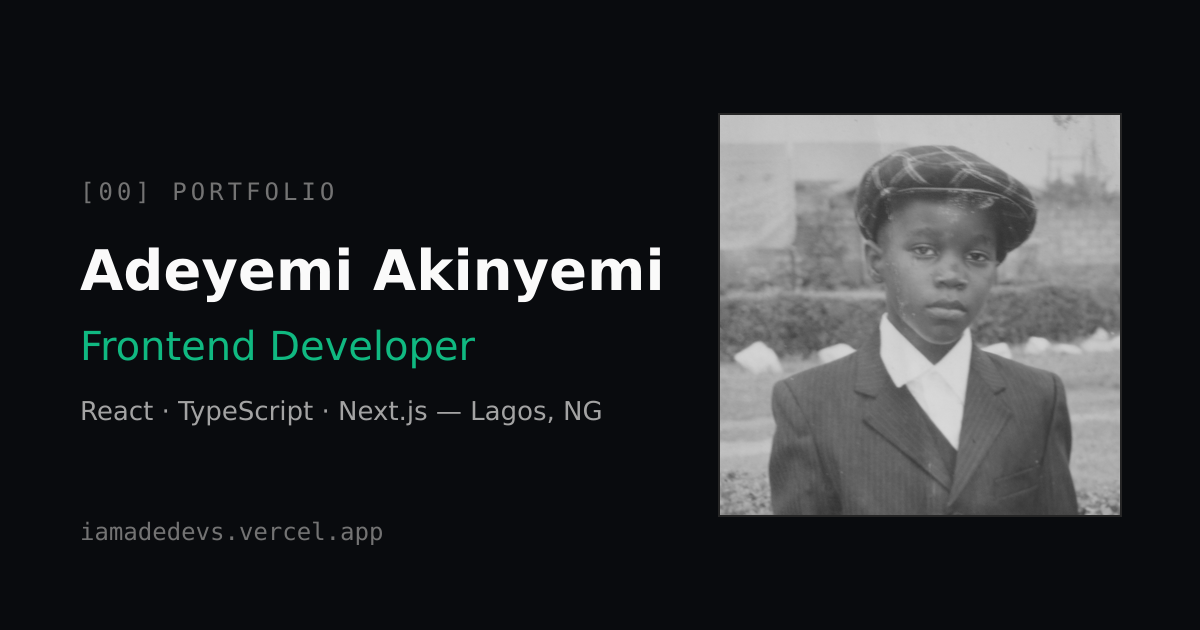
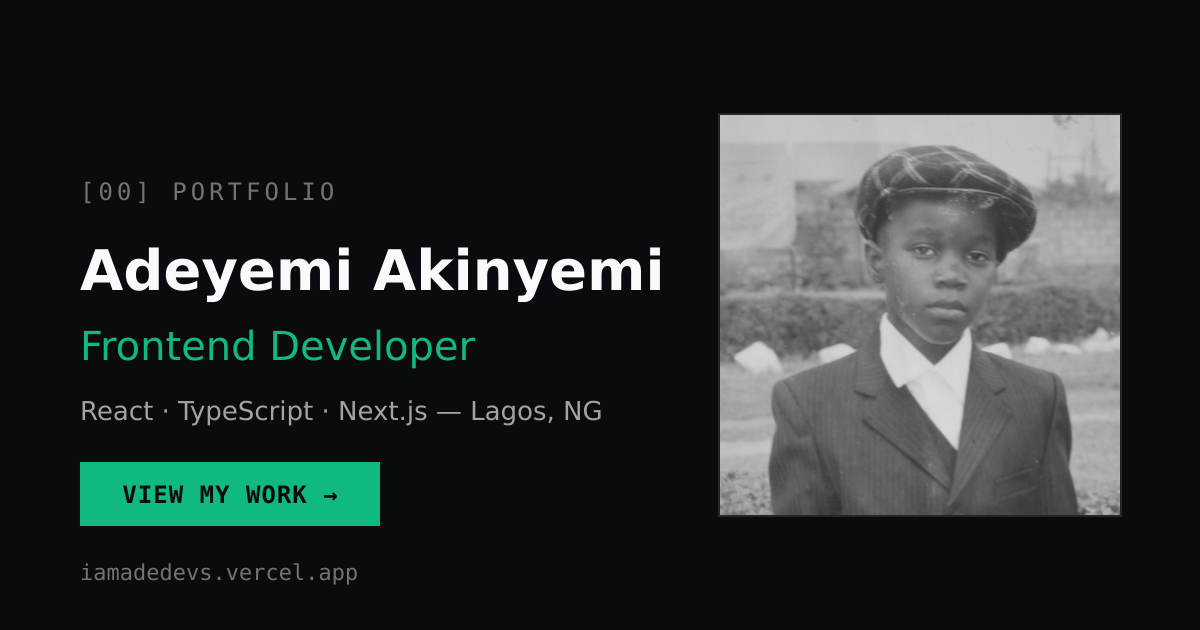
feat(seo): shorten meta description and add call to action to share image

Changed region(s): [[0.0617, 0.7238, 0.3392, 0.8746], [0.0617, 0.9048, 0.3083, 0.9349]]

diff --git a/index.html b/index.html
@@ -5,7 +5,7 @@
   <meta charset="UTF-8" />
   <meta name="viewport" content="width=device-width, initial-scale=1.0" />
   <title>Adeyemi Akinyemi | Frontend Developer in Lagos, Nigeria</title>
-  <meta name="description" content="Adeyemi Akinyemi (AdeDevs) is a frontend developer in Lagos, Nigeria, building fast, accessible web apps with React, TypeScript and Next.js. See projects, services and contact details." />
+  <meta name="description" content="Adeyemi Akinyemi is a frontend developer in Lagos, Nigeria, building fast, accessible web apps with React, TypeScript and Next.js." />
   <meta name="author" content="Adeyemi Akinyemi" />
   <meta name="robots" content="index, follow, max-image-preview:large" />
   <link rel="canonical" href="https://iamadedevs.vercel.app/" />
@@ -21,7 +21,7 @@
   <meta property="og:url" content="https://iamadedevs.vercel.app/" />
   <meta property="og:title" content="Adeyemi Akinyemi | Frontend Developer" />
   <meta property="og:description" content="Frontend developer in Lagos, Nigeria, building fast, accessible web apps with React, TypeScript and Next.js." />
-  <meta property="og:image" content="https://iamadedevs.vercel.app/og-image.png" />
+  <meta property="og:image" content="https://iamadedevs.vercel.app/og-image.png?v=2" />
   <meta property="og:image:width" content="1200" />
   <meta property="og:image:height" content="630" />
   <meta property="og:image:alt" content="Adeyemi Akinyemi, Frontend Developer" />
@@ -33,7 +33,7 @@
   <meta name="twitter:creator" content="@iamadedevs" />
   <meta name="twitter:title" content="Adeyemi Akinyemi | Frontend Developer" />
   <meta name="twitter:description" content="Frontend developer in Lagos, Nigeria, building fast, accessible web apps with React, TypeScript and Next.js." />
-  <meta name="twitter:image" content="https://iamadedevs.vercel.app/og-image.png" />
+  <meta name="twitter:image" content="https://iamadedevs.vercel.app/og-image.png?v=2" />
   <meta name="twitter:image:alt" content="Adeyemi Akinyemi, Frontend Developer" />
 
   <link rel="preconnect" href="https://fonts.googleapis.com">
